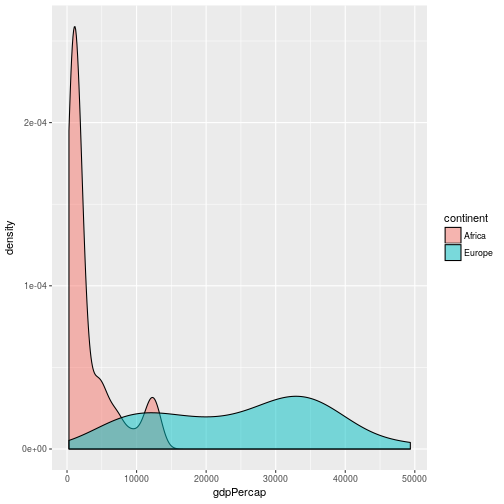
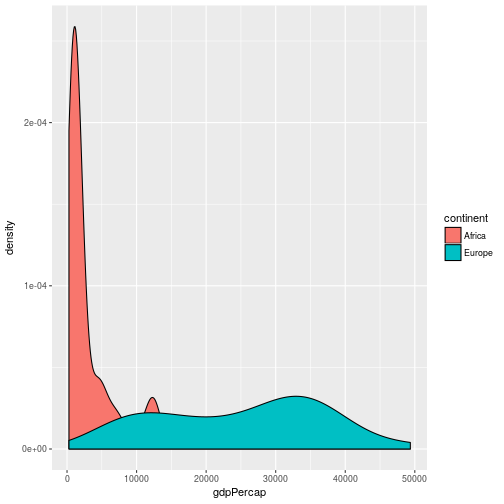
Make use of fill attribute more obvous.  Fixes #64

Changed region(s): [[0.119, 0.0595, 0.8333, 0.8929], [0.8631, 0.4464, 0.9226, 0.5357]]

diff --git a/_episodes/05-plot-ggplot2.md b/_episodes/05-plot-ggplot2.md
@@ -487,7 +487,19 @@ gapminder %>%
 <img src="../fig/rmd-06-unnamed-chunk-12-1.png" title="plot of chunk unnamed-chunk-12" alt="plot of chunk unnamed-chunk-12" style="display: block; margin: auto;" />
 
 By default the density estimate is drawn in outline (i.e. it isn't filled in).  We can use the `fill` attribute to fill it in; this can be
-passed in the aesthetic (e.g. `aes(x = gdpPercap, fill = ...))`) to fill according to the data, or directly to `geom_density()`.
+passed in the aesthetic (e.g. `aes(x = gdpPercap, fill = ...))`) to fill according to the data, or directly to `geom_density()`. The `colour` attribute controls the _outline_ of the shape.  For example:
+
+
+
+~~~
+gapminder %>% 
+  filter(year == 2007, continent == "Europe") %>% 
+  ggplot(aes(x = gdpPercap)) + 
+  geom_density(fill = "red", colour="blue") 
+~~~
+{: .language-r}
+
+<img src="../fig/rmd-06-unnamed-chunk-13-1.png" title="plot of chunk unnamed-chunk-13" alt="plot of chunk unnamed-chunk-13" style="display: block; margin: auto;" />
 
 > ## Challenge 5
 > 
@@ -543,7 +555,7 @@ passed in the aesthetic (e.g. `aes(x = gdpPercap, fill = ...))`) to fill accordi
 > > ~~~
 > > {: .language-r}
 > > 
-> > <img src="../fig/rmd-06-unnamed-chunk-14-1.png" title="plot of chunk unnamed-chunk-14" alt="plot of chunk unnamed-chunk-14" style="display: block; margin: auto;" />
+> > <img src="../fig/rmd-06-unnamed-chunk-15-1.png" title="plot of chunk unnamed-chunk-15" alt="plot of chunk unnamed-chunk-15" style="display: block; margin: auto;" />
 > >
 > {: .solution}
 >
@@ -562,7 +574,7 @@ passed in the aesthetic (e.g. `aes(x = gdpPercap, fill = ...))`) to fill accordi
 > > ~~~
 > > {: .language-r}
 > > 
-> > <img src="../fig/rmd-06-unnamed-chunk-15-1.png" title="plot of chunk unnamed-chunk-15" alt="plot of chunk unnamed-chunk-15" style="display: block; margin: auto;" />
+> > <img src="../fig/rmd-06-unnamed-chunk-16-1.png" title="plot of chunk unnamed-chunk-16" alt="plot of chunk unnamed-chunk-16" style="display: block; margin: auto;" />
 > > 
 > {: .solution}
 > 
@@ -582,7 +594,7 @@ passed in the aesthetic (e.g. `aes(x = gdpPercap, fill = ...))`) to fill accordi
 > > ~~~
 > > {: .language-r}
 > > 
-> > <img src="../fig/rmd-06-unnamed-chunk-16-1.png" title="plot of chunk unnamed-chunk-16" alt="plot of chunk unnamed-chunk-16" style="display: block; margin: auto;" />
+> > <img src="../fig/rmd-06-unnamed-chunk-17-1.png" title="plot of chunk unnamed-chunk-17" alt="plot of chunk unnamed-chunk-17" style="display: block; margin: auto;" />
 > > Note that you need to remove the `filter(year == 2007)` line from the code.
 > >
 > {: .solution}
